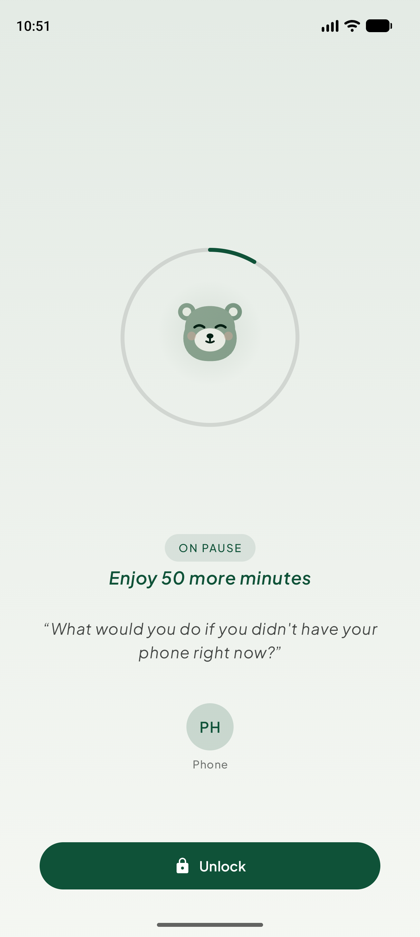
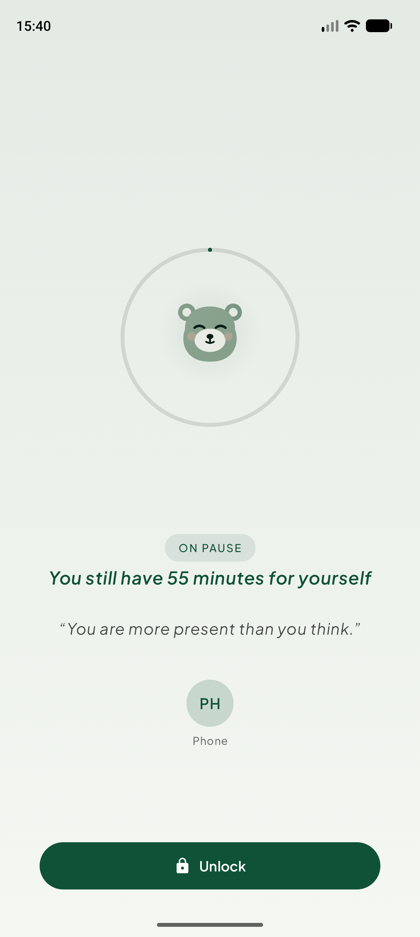
README: le funzioni nuove e cinque screenshot aggiornati
Screenshot rifatti sull'emulatore con dati di prova puliti: Home (pillola
10 min, durata ricordata), pausa, momento di chiusura, Cronologia (scheda
Insieme con Marta e Luca), lobby di Time together con l'attività proposta.
Testo: durate da 10 minuti a 4 ore e riquadro nelle Impostazioni rapide,
profili di app consentite, pause programmate, 'Small Rituals' (pausa
respiro, com'è andata, nota della domenica), attività insieme e scheda
Insieme. Known Limits: la notifica delle pause programmate e l'uscita
lenta, dette chiaramente. Per sviluppatori: il comando per registrare gli
screenshot test.

diff --git a/README.md b/README.md
@@ -6,10 +6,11 @@ holds the password can end it early. No sign-up, no backend, no tracking:
 just you, your phone, and a bit of quiet.
 
 <p align="center">
-  <img src="docs/screenshots/home.png" width="200" alt="Home screen with weekly streak" />
-  <img src="docs/screenshots/paused.png" width="200" alt="Active pause screen" />
-  <img src="docs/screenshots/history.png" width="200" alt="Session history" />
-  <img src="docs/screenshots/tempo_insieme.png" width="200" alt="Time together setup screen" />
+  <img src="docs/screenshots/home.png" width="160" alt="Home: tap the otter, pick a duration" />
+  <img src="docs/screenshots/paused.png" width="160" alt="A pause in progress" />
+  <img src="docs/screenshots/closing.png" width="160" alt="How was it? The closing moment after a pause" />
+  <img src="docs/screenshots/history.png" width="160" alt="History with the weekly chart and time spent together" />
+  <img src="docs/screenshots/tempo_insieme.png" width="160" alt="Time together: the host's lobby with a suggested activity" />
 </p>
 
 ## How it works
@@ -20,7 +21,11 @@ just you, your phone, and a bit of quiet.
    Android Keystore — the actual password is never stored anywhere.
 2. **Grant two permissions** — Accessibility and Do Not Disturb access.
    That's the whole setup, one time only.
-3. **Pick a duration and tap the otter.** Every app but Phone gets covered
+3. **Pick a duration and tap the otter** — from a 10-minute breather to
+   four hours; the app remembers the one you chose last. Or start it from
+   the home-screen widget or the "Calm Otter" Quick Settings tile, which
+   is there even when you're already deep in another app. Every app but
+   Phone gets covered
    by a calm full-screen countdown, notifications go quiet — calls, alarms
    and whatever you're listening to still get through — and the pause is
    backed by a system alarm, so it ends on time even if you never touch
@@ -35,8 +40,32 @@ just you, your phone, and a bit of quiet.
 
 Not everything needs to wait. Keep a short list of apps that stay
 reachable during a pause — maps, a family chat, whatever is
-non-negotiable. Only the password holder can change that list, so it
-stays a deliberate exception, not a loophole.
+non-negotiable. Different pauses can allow different things: a "Work"
+list with Maps and the team chat, an "Evening" one with nothing at all.
+Only the password holder can create or change these lists, so they stay
+a deliberate exception, not a loophole; picking which one to use for the
+next pause is a single tap on Home.
+
+## Scheduled Pauses
+
+The best moment to start a pause is the one you'd rather skip. Set it once
+— "weekdays at 21:00 for an hour", "Sunday morning, two hours" — and it
+starts by itself, with a quiet heads-up five minutes before. Adding a
+schedule or making it stricter is free; switching it off, shortening it,
+moving it later or skipping tonight needs the password. That's the pact.
+
+## Small Rituals
+
+- **A breathing pause.** Ten minutes, for the tense moments: the ring
+  slowly expands and contracts and the screen just says *Breathe in*,
+  *Breathe out* — no clock to watch.
+- **How was it?** When a pause runs its full course, one gentle question:
+  calm, ordinary or hard, plus a few words if you like ("walk by the
+  lake"). It ends up in History next to that pause. Never after a pause
+  cut short — it's a nod to time well spent, not a reproach.
+- **A Sunday evening note.** Once a week, "This week: 7 pauses of calm."
+  Only the count, never hours, streaks, goals or comparisons, and nothing
+  at all if there were no pauses. One switch in Settings turns it off.
 
 ## Home App
 
@@ -63,6 +92,14 @@ made for a couple, a family, or a team that wants to disconnect as one:
 
 Everyone in the pause sees who they're with ("Together with Marta") on
 the block screen, and the pause shows up with those names in History.
+
+**Something to do together.** A shared pause takes the phones away and can
+leave a silence: "so, what now?". The host gets a suggestion that fits the
+length — *Let's take a long walk, no destination*, *Let's play a game of
+cards*, or simply *Nothing: let's just be together* — and can ask for
+another one. Everyone sees the same suggestion, in their own language,
+during the pause. History then keeps a small icon of what kind of thing
+you did, and a "Together" card adds it up: *Marta · 6 h in 4 pauses*.
 
 **Ending it together.** If the person who started the shared pause
 unlocks it early, their phone offers to release the others: hold the
@@ -97,6 +134,13 @@ otherwise:
   launcher show its own "set as default" nag or restrict some features.
   This is an unavoidable side effect of how Android's `RoleManager` works
   and is left as-is rather than "fixed."
+- A scheduled pause starts on time and blocks as usual, but Android may
+  not let it show its ongoing notification until the app is next opened:
+  a background start is only allowed for exact alarms, which need a
+  permission Calm Otter doesn't ask for.
+- The slow exit (wait 10 minutes instead of typing the password) is a
+  deliberate, softer way out. It's on by default, said in onboarding, and
+  only the password holder can switch it off.
 
 For a genuinely hard block, the app would need Device Owner provisioning
 and Lock Task Mode with `DISALLOW_CONFIGURE_ACCESSIBILITY`,
@@ -147,6 +191,10 @@ flow) and `specs/README.md` for the index of feature specs.
 ./gradlew assembleDebug                                  # both flavors' debug APKs
 ./gradlew testStableDebugUnitTest testBetaDebugUnitTest  # unit tests (Robolectric)
 ./gradlew lintStableDebug lintBetaDebug                  # Android Lint (0 errors, CI-enforced)
+
+# Screenshot tests run with the unit tests; after an intentional visual
+# change, re-record the reference images and commit them:
+./gradlew testStableDebugUnitTest --tests "*ScreenshotTest*" -Pscreenshots.record=true
 ```
 
 Two flavors exist on a `channel` dimension so a beta build can sit
